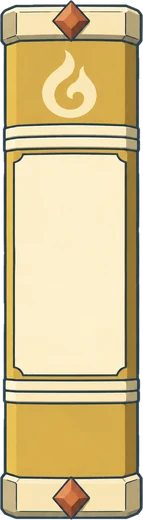
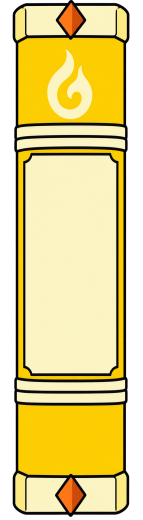
wip

diff --git a/src/style.css b/src/style.css
@@ -164,10 +164,18 @@ body {
     --ratio: 695 / 1024;
     width: min(100cqw, 100cqh * 695 / 1024);
   }
+  .bookcase::before {
+    -webkit-mask-image: url('./library/bookcase-tall-mask.webp');
+    mask-image: url('./library/bookcase-tall-mask.webp');
+    -webkit-mask-size: 100% 100%;
+    mask-size: 100% 100%;
+    -webkit-mask-repeat: no-repeat;
+    mask-repeat: no-repeat;
+  }
   .shelf { left: 16%; right: 15%; gap: 1.5cqh; }
-  .shelf:nth-of-type(1) { top: 9.8%; height: 22.8%; }
-  .shelf:nth-of-type(2) { top: 36%; height: 22.8%; }
-  .shelf:nth-of-type(3) { top: 63.5%; height: 21.5%; }
+  .shelf:nth-of-type(1) { top: 9.8%; height: 20.6%; }
+  .shelf:nth-of-type(2) { top: 36%; height: 20.2%; }
+  .shelf:nth-of-type(3) { top: 63.5%; height: 21%; }
   .plaque { top: 88.4%; font-size: clamp(9px, 3.4cqw, 18px); }
   .is-wide { display: none; }
   .book { --ar: 0.4; }

diff --git a/src/library/ARTWORK.md b/src/library/ARTWORK.md
@@ -1,0 +1,114 @@
+# Homepage artwork
+
+Regenerated with the built-in imagegen tool on October 1, 2026, in an Adventure Time inspired cartoon style. Existing filenames and dimensions are retained. Transparent props and books remain individual WebP sprites. The mobile shelf uses the original silhouette as a CSS mask to keep its opaque back panels intact. Mobile book placement follows the regenerated front shelf edges at 30.4%, 56.2%, and 84.5% of image height.
+
+## Room, shelf, and hover card prompts
+
+### room.webp
+
+Use case: style-transfer. Asset type: Academy homepage room backdrop. Edit the supplied room illustration into the visual style of Adventure Time: crisp bold near-black outlines, simple whimsical fantasy cartoon shapes, bright flat turquoise wall and honey-orange wood, limited clean cel-color shadow areas, absolutely no painterly texture or grain. Preserve this image's exact 3:2 composition and placement: terracotta star banner top-left, globe and stacked books bottom-left, round wood window with trailing plant upper-right, candle and stacked books bottom-right, wooden floor along bottom. Keep the large central wall completely clear for the separately rendered bookcase. Retain same object sizes and canvas edge crops, no characters, no lettering, no watermark. Output opaque full background.
+
+### bookcase-wide.webp
+
+Use case: style-transfer. Edit target is the supplied wide EMPTY fantasy bookcase. Regenerate in Adventure Time cartoon style: bold crisp near-black continuous outlines, flat honey orange wood, cream geometric diamond corner caps, simplified clean cel colors with no brush grain or painterly texture. PRESERVE exact layout of this reference: aspect ratio 1508:986, front-facing horizontal bookcase occupying full canvas, 3 empty compartments. Left interior edge x11%, right x89.5%; shelf floor top edges y34.6%,58.8%,81.5% respectively, so web-rendered books align. Keep same outer silhouette, diamond top center and corner ornaments, frame thickness, back panel brown. No books or objects, no lettering, no characters, no gradients. Background outside silhouette must be truly transparent, including corners. The back panels inside compartments remain opaque brown. Stay closely aligned to original geometry; only change illustration treatment.
+
+### card.webp
+
+Use case: style-transfer. Edit this supplied blank portrait paper hover card into Adventure Time cartoon style: clean bold near-black slightly playful outline, flat ivory paper fill, simple teal three-leaf ornaments in all four corners, minimal flat cel shadow if needed no grain no painterly shading. Preserve exact portrait aspect425:640 and full-canvas border position, card silhouette and generous blank central field for HTML lecture text. Keep decorative leaves tiny in extreme corners. No writing, no logos, no characters, no new decorations. Exterior tiny corners truly transparent; paper opaque. Style should coordinate with bright flat cartoon fantasy library.
+
+### bookcase-tall.webp
+
+Use case: style-transfer. Redraw the ORIGINAL tall empty fantasy bookcase in the first reference as an Adventure Time cartoon background prop, matching second reference bright flat orange frame and crisp heavy black outlines. Strict original tall geometry695:1024, three compartments, shelf upper floor lines exactly y32.6%,58.8%,85%, inner x16%-85%. Original corner caps and center top diamond, outer silhouette and thickness. Clean light brown flat OPAQUE compartment backs, no gradient, no painterly shading, no grain, no blotches, no holes, no text, no objects inside. Render entire canvas FULLY OPAQUE including the back panels, black plain color outside bookcase. Output no transparency at all: the website will apply an existing precise silhouette mask separately. DO NOT remove background, DO NOT make panels translucent. Keep furniture geometry exactly original.
+
+## Book and prop prompts
+
+Final mobile shelf framing correction:
+
+Change only framing/canvas crop of first image, preserve same cartoon bookcase artwork and fully opaque image. Remove the extra black outer padding by enlarging the furniture to occupy the complete canvas, matching second image's exact framing: feet/base touch bottom edge, left and right decorative caps touch side edges, top diamond touches top edge. No black horizontal margin strip below feet; base spans full bottom to very edge. Keep three shelves, dark brown fully opaque back panels, Adventure Time bold orange cream cartoon art. Strict portrait ratio695:1024, no text or objects. Keep fully opaque, NO background removal. Shelf floor edges y32.6%,58.8%,85%. Match second reference original layout's outer silhouette proportions very closely.
+
+
+# Homepage book artwork prompts
+
+## Targeted follow-up for tome-sage.webp
+
+Use case: background-extraction. Image 1 exact edit target. Remove ALL the red stray strip and colored background artifacts outside the green book silhouette, make them fully alpha 0. Preserve the green cartoon fantasy book itself exactly: colors, outlines, blank label, cream leaf emblem and orange diamonds. The entire space outside the single book must be genuinely transparent with no stray pixels or shadows, not black or red. Do not add anything. Keep tall upright composition.
+
+Final conversion keeps original pixel dimensions: tomes 143×520, spines 130×520.
+
+Built-in image_gen, style-transfer; each call edits matching original local asset with transparent_background true. Output converted to WebP losslessly with cwebp, alpha retained. No import changes.
+
+## tome-teal.webp
+
+Use case: style-transfer. Asset: isolated narrow upright teal fantasy book for homepage shelf. Image 1 is exact edit target. Redraw in Adventure Time cartoon style: bold smooth near-black outlines, bright flat teal cover, creamy pale yellow bands and blank inset label, orange diamond ornaments and cream spiral emblem. Match original upright front-view silhouette, skinny tall aspect ratio, all margins, label position and emblem positions exactly. Flat vector-like cartoon, charming simple shapes. Genuine transparent background outside book; no checkerboard baked into pixels, no letters, no words, no texture, no gradients, no painterly shading, no new objects. Output the single book full-height with original composition and transparent padding.
+
+## spine-teal.webp
+
+Use case: style-transfer. Asset: isolated narrow upright plain book spine for homepage bookshelf. Image 1 is exact edit target. Redraw in Adventure Time cartoon style: confident continuous thick near-black outline, simplified clean shapes, vivid flat bright turquoise teal cover, creamy pale yellow horizontal bands, blank cream inset label, cream spiral emblem inside cream circle. Preserve original exact upright front-view skinny tall silhouette and aspect ratio, blank label position and size, emblem positions, bands and canvas composition. Do not add extra ornaments. Genuine transparent background outside book, no baked checkerboard. Absolutely no text, no letters, no texture, no painterly shading. Full single object, no scene or new objects.
+
+## tome-terracotta.webp
+
+Use case: style-transfer. Asset: isolated narrow upright ornamental fantasy book for homepage bookshelf. Image 1 is exact edit target. Redraw in Adventure Time cartoon style: confident continuous thick near-black outline, simplified clean shapes, vivid flat bright orange terracotta cover, creamy pale yellow horizontal bands, blank cream inset label, cream shield and orange diamonds. Preserve original exact upright front-view skinny tall silhouette and aspect ratio, blank label position and size, emblem positions, bands and canvas composition. Do not add extra ornaments. Genuine transparent background outside book, no baked checkerboard. Absolutely no text, no letters, no texture, no painterly shading. Full single object, no scene or new objects.
+
+## spine-terracotta.webp
+
+Use case: style-transfer. Asset: isolated narrow upright plain book spine for homepage bookshelf. Image 1 is exact edit target. Redraw in Adventure Time cartoon style: confident continuous thick near-black outline, simplified clean shapes, vivid flat bright orange terracotta cover, creamy pale yellow horizontal bands, blank cream inset label, orange shield inside cream circle. Preserve original exact upright front-view skinny tall silhouette and aspect ratio, blank label position and size, emblem positions, bands and canvas composition. Do not add extra ornaments. Genuine transparent background outside book, no baked checkerboard. Absolutely no text, no letters, no texture, no painterly shading. Full single object, no scene or new objects.
+
+## tome-sage.webp
+
+Use case: style-transfer. Asset: isolated narrow upright ornamental fantasy book for homepage bookshelf. Image 1 is exact edit target. Redraw in Adventure Time cartoon style: confident continuous thick near-black outline, simplified clean shapes, vivid flat fresh grass green cover, creamy pale yellow horizontal bands, blank cream inset label, cream leaf emblem, orange diamonds. Preserve original exact upright front-view skinny tall silhouette and aspect ratio, blank label position and size, emblem positions, bands and canvas composition. Do not add extra ornaments. Genuine transparent background outside book, no baked checkerboard. Absolutely no text, no letters, no texture, no painterly shading. Full single object, no scene or new objects.
+
+## spine-sage.webp
+
+Use case: style-transfer. Asset: isolated narrow upright plain book spine for homepage bookshelf. Image 1 is exact edit target. Redraw in Adventure Time cartoon style: confident continuous thick near-black outline, simplified clean shapes, vivid flat fresh grass green cover, creamy pale yellow horizontal bands, blank cream inset label, green leaf inside cream circle. Preserve original exact upright front-view skinny tall silhouette and aspect ratio, blank label position and size, emblem positions, bands and canvas composition. Do not add extra ornaments. Genuine transparent background outside book, no baked checkerboard. Absolutely no text, no letters, no texture, no painterly shading. Full single object, no scene or new objects.
+
+## tome-pink.webp
+
+Use case: style-transfer. Asset: isolated narrow upright ornamental fantasy book for homepage bookshelf. Image 1 is exact edit target. Redraw in Adventure Time cartoon style: confident continuous thick near-black outline, simplified clean shapes, vivid flat vivid candy pink cover, creamy pale yellow horizontal bands, blank cream inset label, cream five-point star, orange diamonds. Preserve original exact upright front-view skinny tall silhouette and aspect ratio, blank label position and size, emblem positions, bands and canvas composition. Do not add extra ornaments. Genuine transparent background outside book, no baked checkerboard. Absolutely no text, no letters, no texture, no painterly shading. Full single object, no scene or new objects.
+
+## spine-pink.webp
+
+Use case: style-transfer. Asset: isolated narrow upright plain book spine for homepage bookshelf. Image 1 is exact edit target. Redraw in Adventure Time cartoon style: confident continuous thick near-black outline, simplified clean shapes, vivid flat vivid candy pink cover, creamy pale yellow horizontal bands, blank cream inset label, pink four-point sparkle inside cream circle. Preserve original exact upright front-view skinny tall silhouette and aspect ratio, blank label position and size, emblem positions, bands and canvas composition. Do not add extra ornaments. Genuine transparent background outside book, no baked checkerboard. Absolutely no text, no letters, no texture, no painterly shading. Full single object, no scene or new objects.
+
+## tome-mustard.webp
+
+Use case: style-transfer. Asset: isolated narrow upright ornamental fantasy book for homepage bookshelf. Image 1 is exact edit target. Redraw in Adventure Time cartoon style: confident continuous thick near-black outline, simplified clean shapes, vivid flat vivid golden yellow cover, creamy pale yellow horizontal bands, blank cream inset label, cream flame spiral emblem and orange diamonds. Preserve original exact upright front-view skinny tall silhouette and aspect ratio, blank label position and size, emblem positions, bands and canvas composition. Do not add extra ornaments. Genuine transparent background outside book, no baked checkerboard. Absolutely no text, no letters, no texture, no painterly shading. Full single object, no scene or new objects.
+
+## spine-mustard.webp
+
+Use case: style-transfer. Asset: isolated narrow upright plain book spine for homepage bookshelf. Image 1 is exact edit target. Redraw in Adventure Time cartoon style: confident continuous thick near-black outline, simplified clean shapes, vivid flat vivid golden yellow cover, creamy pale yellow horizontal bands, blank cream inset label, yellow flame inside cream circle. Preserve original exact upright front-view skinny tall silhouette and aspect ratio, blank label position and size, emblem positions, bands and canvas composition. Do not add extra ornaments. Genuine transparent background outside book, no baked checkerboard. Absolutely no text, no letters, no texture, no painterly shading. Full single object, no scene or new objects.
+
+
+## src/library/prop-stack.webp
+
+Built-in image_gen edit, transparent_background true. Generated source: /Users/linh/.codex/generated_images/01a0f6fe-b4b6-7fb2-9146-58b58971fd8d/exec-c3b838c6-3169-4398-9d91-fbdf4cb60c25.png. Converted using cwebp q92 alpha_q100 to 520 × 220.
+
+Prompt:
+Use case: style-transfer. Asset: transparent cartoon prop for the YITEC Academy homepage. Edit target: attached image of THREE horizontal books stacked together. Regenerate it in the Adventure Time animation style: playful clean cartoon, bold near-black hand-drawn outlines, vivid flat colors, simplified chunky shapes and tiny cel-shaded accents, no grain or painterly rendering. Preserve the exact subject: three horizontal books, warm coral on top, teal middle, leaf-green bottom, golden bands, ivory pages on right. Preserve reference silhouette, wide proportions, crop, and pose so it replaces the original CSS sprite. No added characters, faces, background, words or new objects. Entire outer background genuinely transparent; keep complete object uncropped.
+
+## src/library/prop-potion.webp
+
+Built-in image_gen edit, transparent_background true. Generated source: /Users/linh/.codex/generated_images/01a0f6fe-b4b6-7fb2-9146-58b58971fd8d/exec-6bd3562f-eb36-43c9-96fe-7507a3002192.png. Converted using cwebp q92 alpha_q100 to 356 × 520.
+
+Prompt:
+Use case: style-transfer. Asset: transparent cartoon prop for the YITEC Academy homepage. Edit target: attached round potion bottle. Regenerate it in the Adventure Time animation style: playful clean cartoon, bold near-black hand-drawn outlines, vivid flat colors, simplified chunky shapes, tiny cel-shaded accents, no grain or painterly shading. Preserve exact subject: a single round-bellied teal glass bottle, narrow short neck and brown cork, blank ivory label across belly, teal potion filling lower half with three round bubbles. Preserve silhouette, tall proportions, crop, and frontal pose so it replaces existing sprite. Keep label blank, no faces, no figures, no text, no new objects. Genuine transparent outer background. Complete object uncropped.
+
+## src/library/prop-scrolls.webp
+
+Built-in image_gen edit, transparent_background true. Generated source: /Users/linh/.codex/generated_images/01a0f6fe-b4b6-7fb2-9146-58b58971fd8d/exec-66fd9790-b7c6-4bf9-a1e6-bb34e3ef96c1.png. Converted using cwebp q92 alpha_q100 to 520 × 273.
+
+Prompt:
+Use case: style-transfer. Asset: transparent cartoon prop for the YITEC Academy homepage. Edit target: attached THREE sealed rolled parchment scrolls stacked horizontally. Regenerate in Adventure Time animation style: playful simple cartoon, bold near-black hand-drawn outlines, vivid flat colors, chunky simplified shapes, only crisp flat cel-shaded color regions. Avoid gradients, grain, realistic shading and painterly textures. Preserve exactly three horizontal ivory parchment rolls with spiral ends and a coral-red wax seal plus ribbon at center of each, stacked in the same wide compact arrangement as reference. Preserve object geometry, silhouette, crop, wide proportions and frontal pose so it replaces existing CSS sprite. No extra faces, characters, objects, writing, labels or scenery. Actual transparent outer background; full complete object.
+
+## src/library/prop-hourglass.webp
+
+Built-in image_gen edit, transparent_background true. Generated source: /Users/linh/.codex/generated_images/01a0f6fe-b4b6-7fb2-9146-58b58971fd8d/exec-17ff99a8-af19-492e-8fae-75b1844e9fc8.png. Converted using cwebp q92 alpha_q100 to 264 × 520.
+
+Prompt:
+Use case: style-transfer. Asset: transparent cartoon prop for the YITEC Academy homepage. Edit target: attached hourglass. Regenerate in Adventure Time animation style: playful clean cartoon, thick near-black hand-drawn outlines, lively flat colors and chunky simplified shapes. Use only crisp flat cel-shading, no grain, painterly texture or realistic gradients. Preserve exact hourglass subject, green oval wooden top and base, two golden-brown side posts, pale turquoise glass bulb, golden sand in both bowls flowing through narrow middle. Preserve silhouette, proportions, crop and front-facing pose so it replaces existing sprite. No words, characters, faces, added objects or scenery. Outer background genuinely transparent, complete object uncropped.
+
+## src/library/prop-candle.webp
+
+Built-in image_gen edit, transparent_background true. Generated source: /Users/linh/.codex/generated_images/01a0f6fe-b4b6-7fb2-9146-58b58971fd8d/exec-7297678a-f7e3-4db1-8644-90db9cddcaae.png. Converted using cwebp q92 alpha_q100 to 247 × 520.
+
+Prompt:
+Use case: style-transfer. Asset: transparent cartoon prop for the YITEC Academy homepage. Edit target: attached lit candle. Regenerate in Adventure Time animation style: playful simple cartoon with bold near-black hand-drawn outlines, vivid flat colors and chunky shapes. Prefer flat cel-shaded colors, no realistic gradients, grain or painterly texture. Preserve exact subject: one tall ivory wax candle with rounded wax drips, single yellow flame with ivory inner flame above short dark wick, coral-orange clay holder with oval rim and tapered base. Preserve silhouette, proportions, crop and frontal pose so it replaces existing CSS sprite. No faces, figures, words, added objects, shadow ground or background. Actual transparent outer background. Complete object uncropped.
